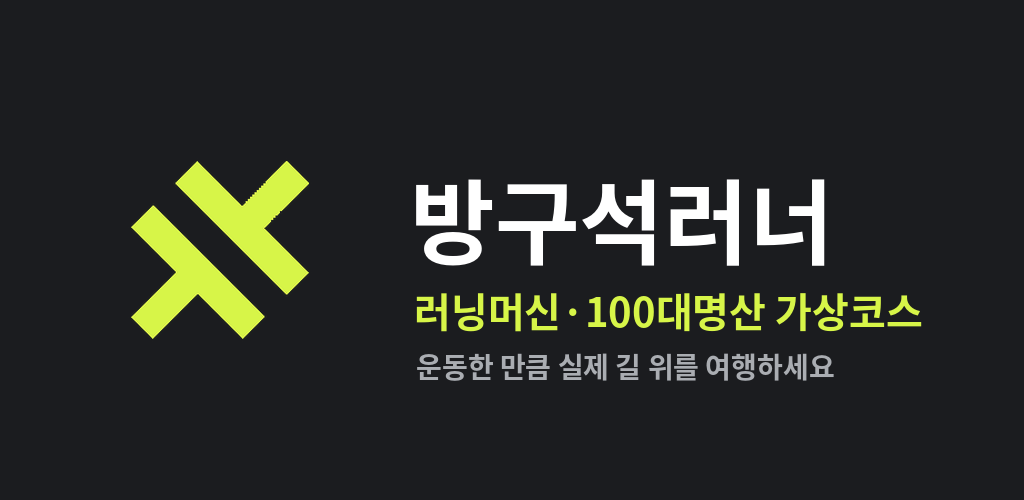
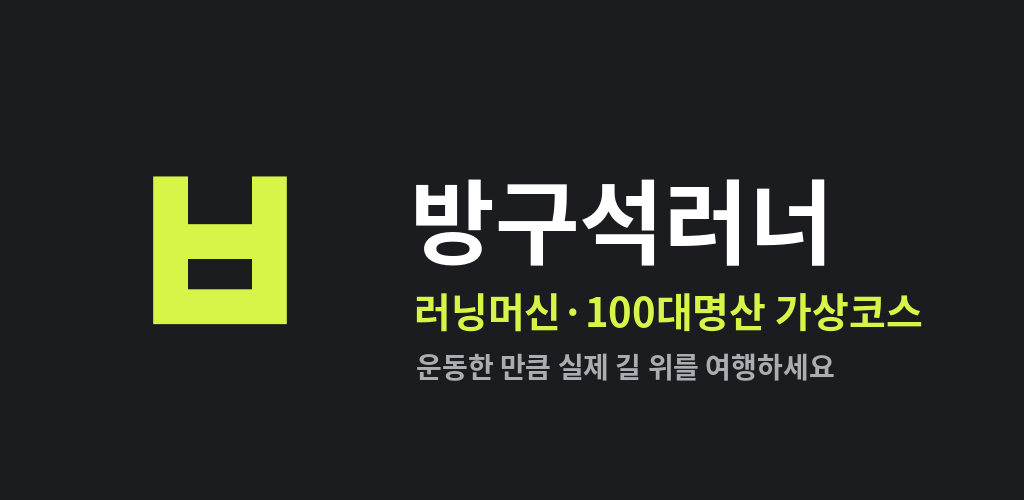
앱 아이콘을 ㅂ으로 교체 (Capacitor 기본 로고 제거): 런처·둥근·적응형 아이콘, 시작 화면, 웹 아이콘, 스토어 그림
Claude-Session: https://claude.ai/code/session_019qMfk1sqnL4mHoq7TSLL1R

Changed region(s): [[0.125, 0.33, 0.3125, 0.69]]

diff --git a/index.html b/index.html
@@ -540,7 +540,7 @@
 </head>
 <body>
 <!-- 11/17 보스: 열 때 예전 화면이 잠깐 보였다 바뀌던 문제 → 새 버전 확인이 끝날 때까지 앱 표식 화면(안드로이드 첫 화면과 같은 그림)으로 가림 -->
[2 lines of base64/hex data omitted]
 
 <canvas id="view"></canvas>
 <div id="map3d" class="hidden"><canvas id="v3dRib"></canvas><div id="v3dCredit"></div></div>   <!-- 11/17 길·산 3D 큰 화면 (눌림은 아래 캔버스로 통과) -->
@@ -951,7 +951,7 @@
 </div>
 
 <script>
-const BUILD = '202611191542';   // 올릴 때마다 바뀜 → 폰이 예전 파일을 붙잡고 있으면 새로 받음
+const BUILD = '202611191800';   // 올릴 때마다 바뀜 → 폰이 예전 파일을 붙잡고 있으면 새로 받음
 
 /* =====================================================================
    세계 데이터  —  도시 → 코스 → 구간 → 명소
